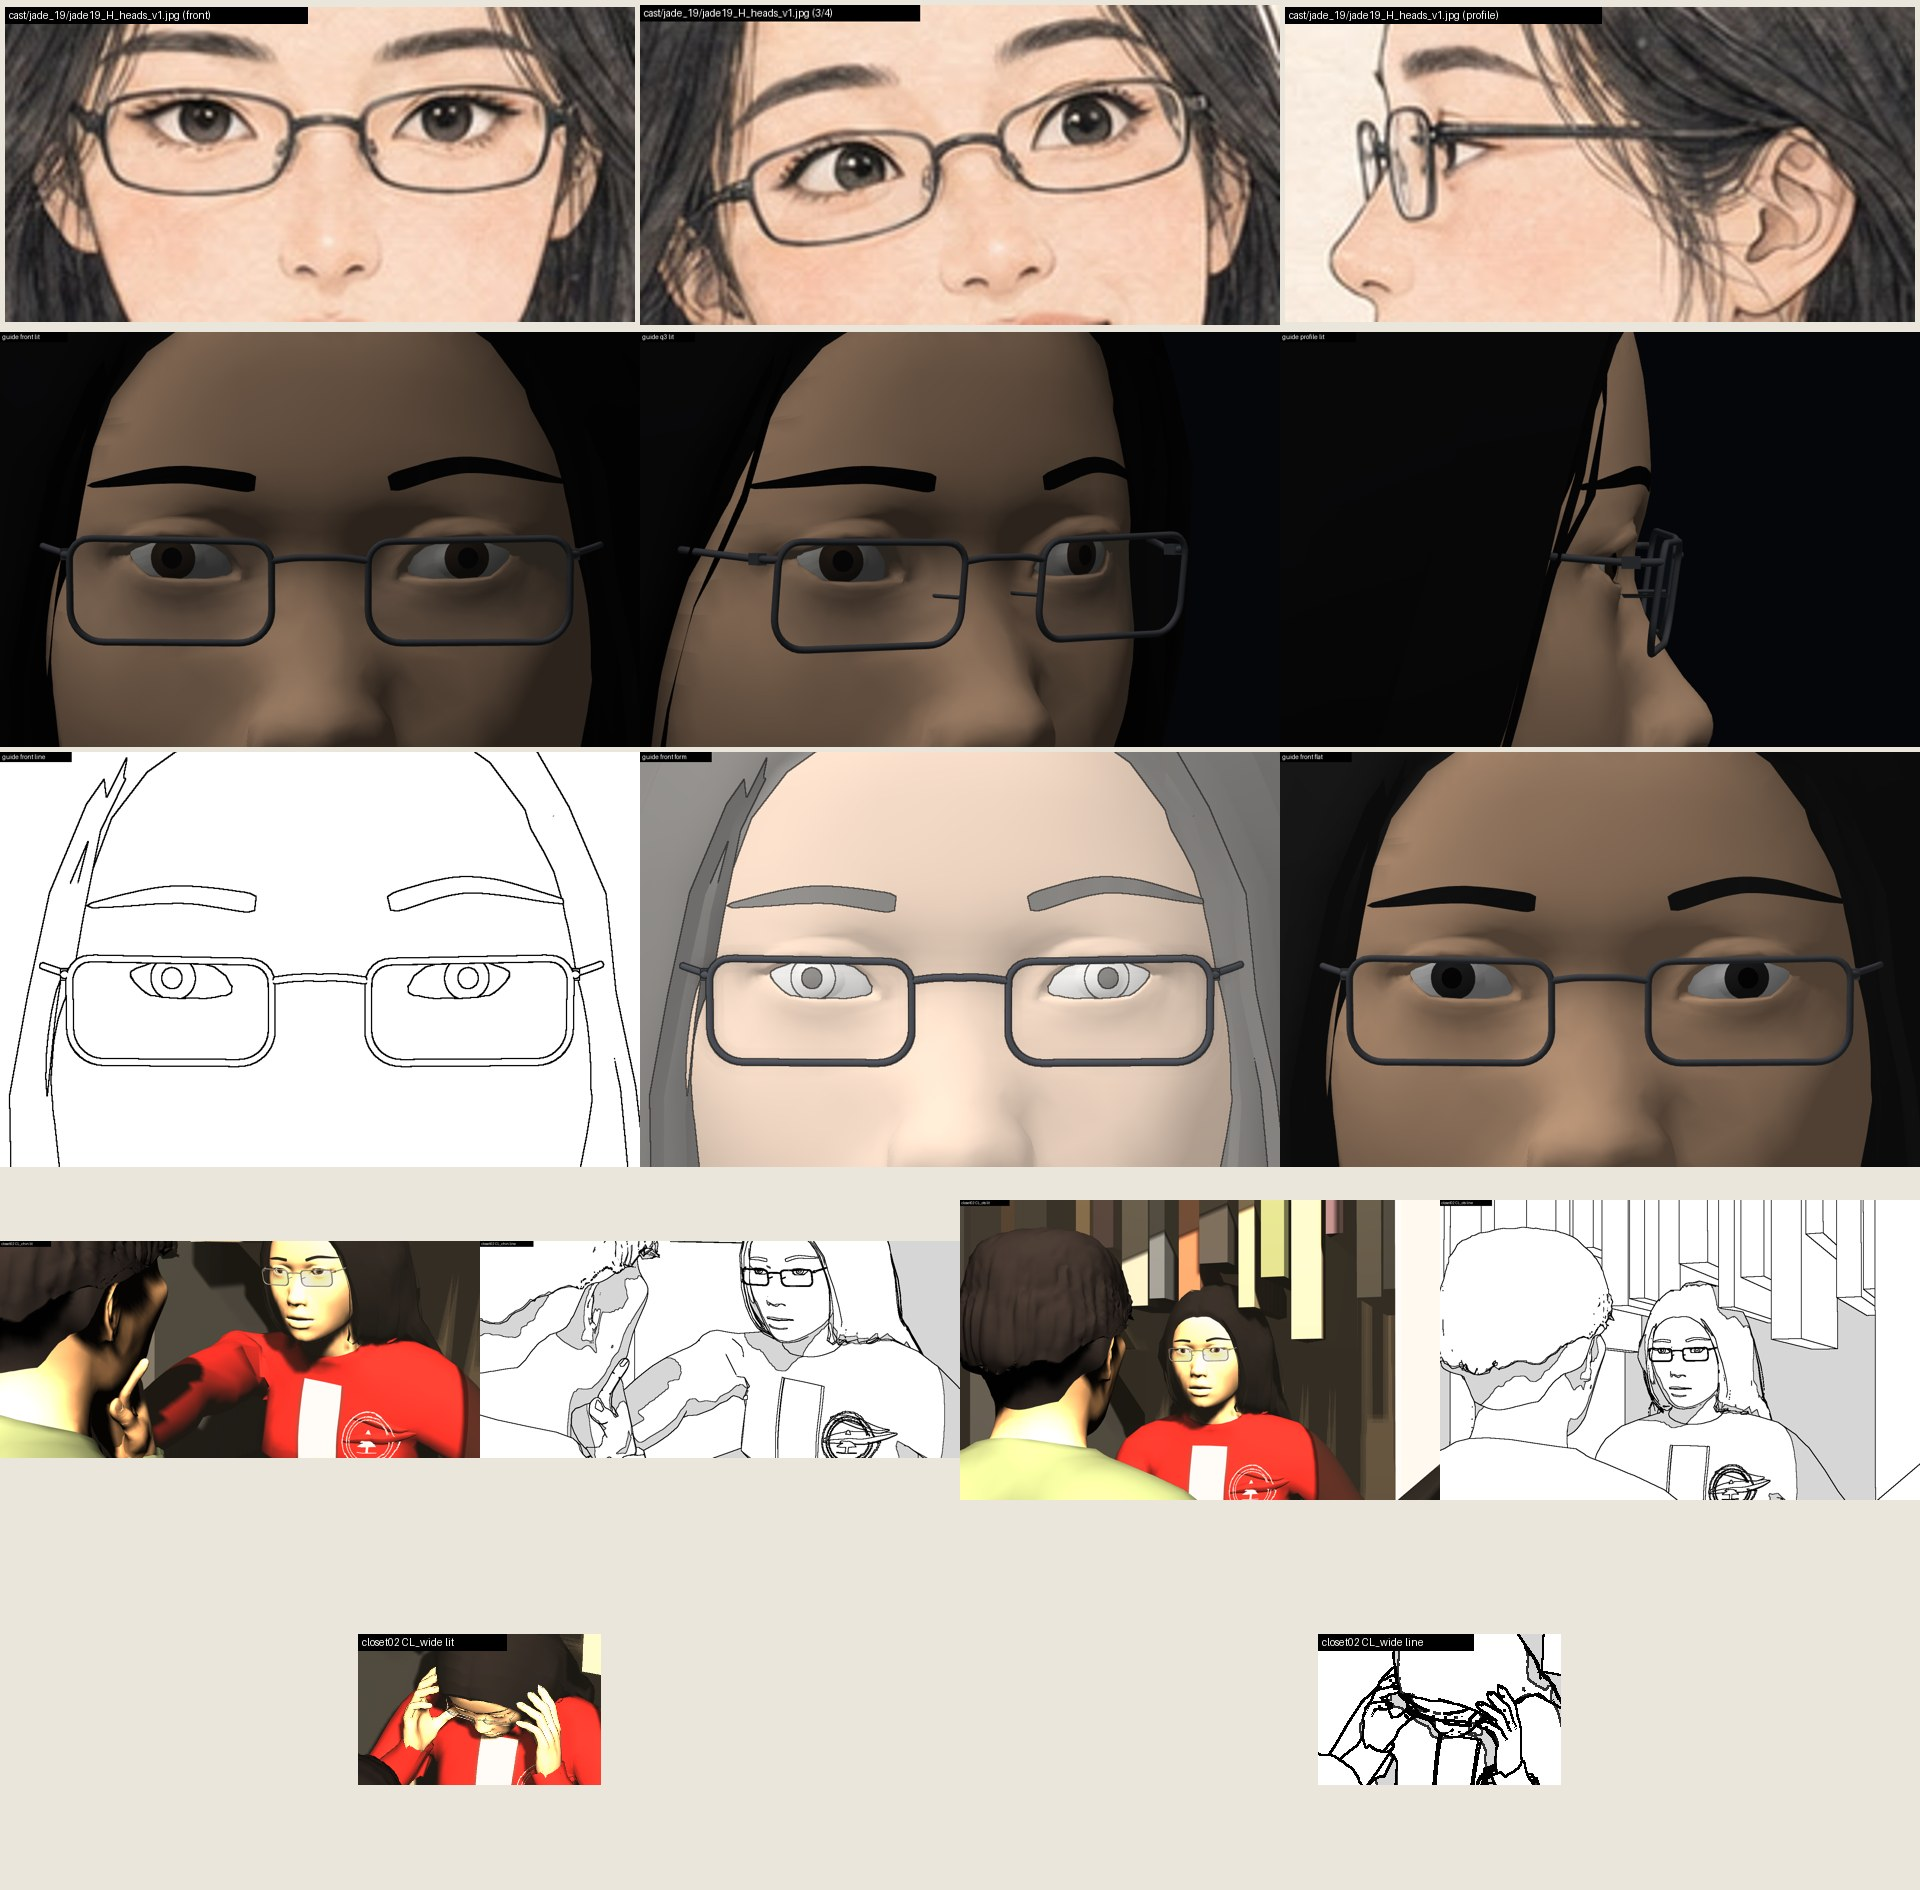
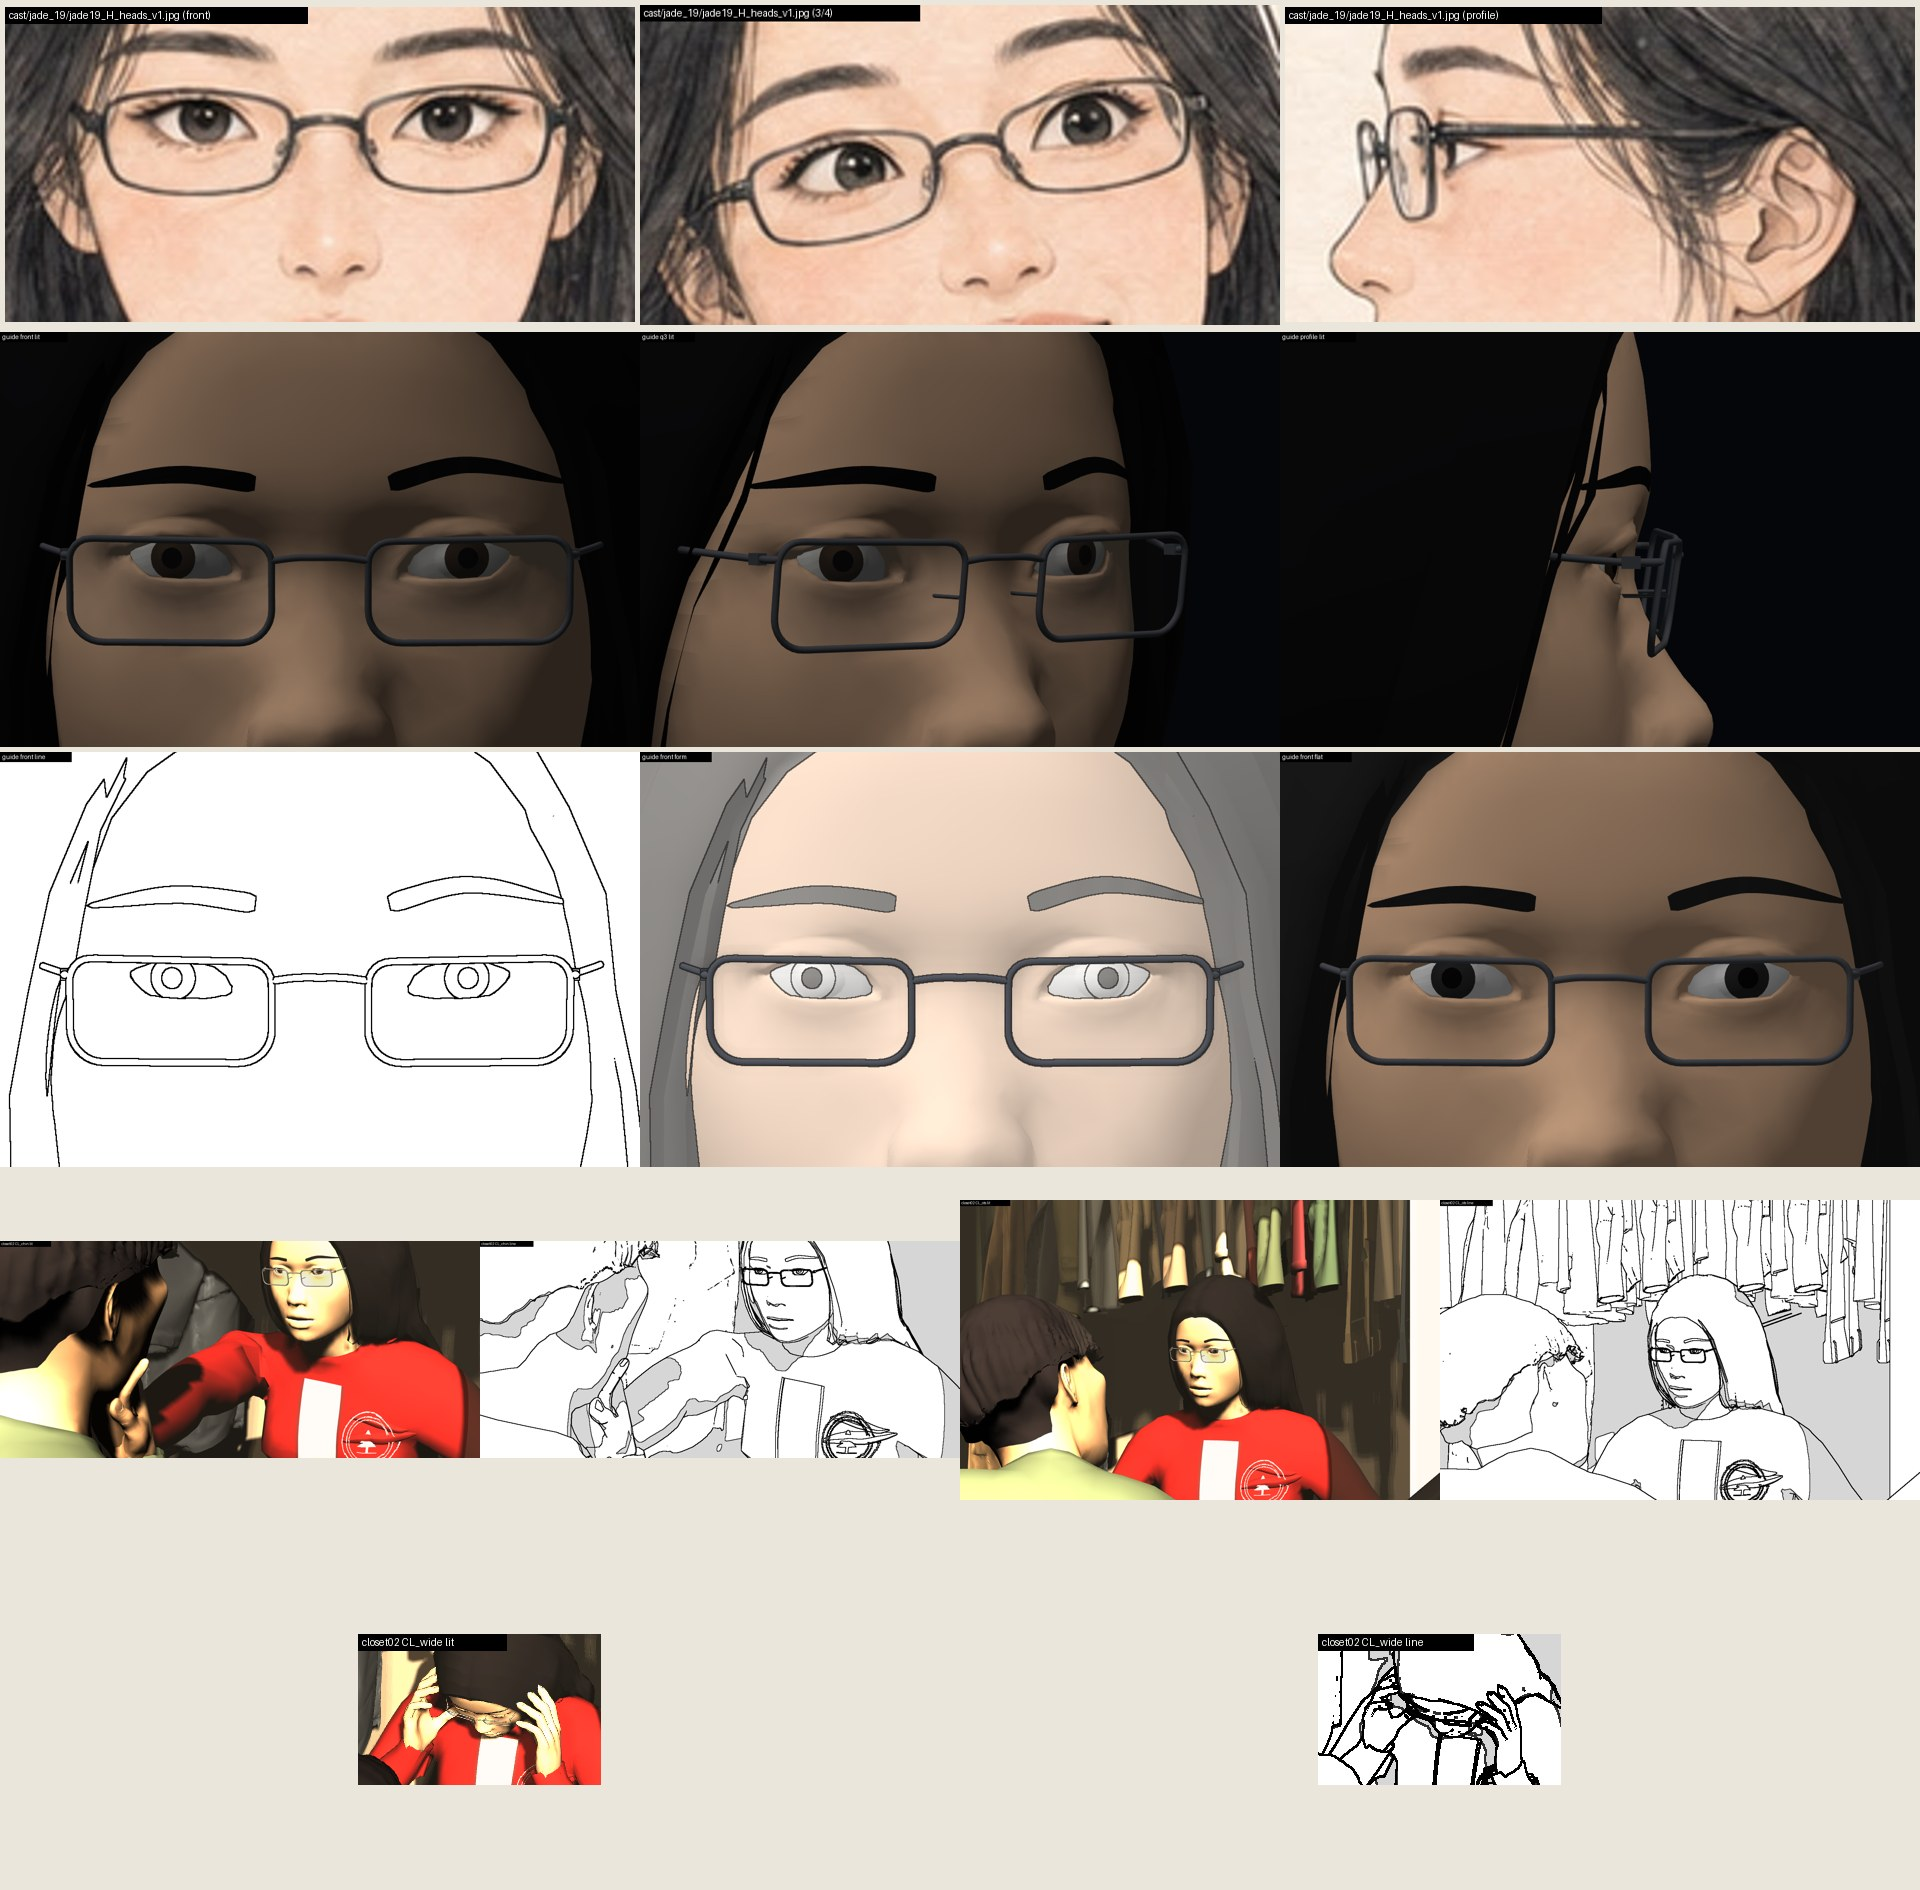
Handoff wording

diff --git a/layout/sets/_cast.js b/layout/sets/_cast.js
@@ -63,7 +63,9 @@ export const SHARED_CAST = {
   jade19: { name: 'Jade (about 19)', h: 1.63, kind: 'adultJade19', skin: 0xe3b692, hair: 0x0e0d0f, top: 0x8a94a8, legs: 0x2c3140, hairStyle: 'long', sleeves: 'long', glasses: 'jade19', brows: 'jade19' },
   jade27: { name: 'Jade (27)', h: 1.65, kind: 'adultJade27', skin: 0xe3b692, hair: 0x0e0d0f, top: 0xd9543a, legs: 0x2c3140, hairStyle: 'long', sleeves: 'short', glasses: 'jade27', brows: 'jade27' },
   // ---- Mama: one person, one height (the engine's `mama`, restaurant apron, 1988); costume variants by year
-  mama86: mamaAs({ name: 'Mama (1986, Shanghai)', top: 0x6f7f9a, hairStyle: 'perm', sleeves: 'short' }),
+  // round 9 (Jade): Mama in Shanghai 1986 wears a CAMEL / CARAMEL sweater, a LONG BLACK SKIRT and slippers (every shanghai86 shot);
+  // the engine has no long skirt: black trousers here, and shanghai86/build.js mamaSkirt draws the long black skirt over them
+  mama86: mamaAs({ name: 'Mama (1986, Shanghai)', top: 0xb08050, legs: 0x1a1a1c, hairStyle: 'perm', sleeves: 'long' }),
   mama90: mamaAs({ name: 'Mama (1990, Decatur)', top: 0x8a5a52, hairStyle: 'perm', sleeves: 'pushed' }),
   mama91: mamaAs({ name: 'Mama (1991, school office)', top: 0x8a5a6a, hairStyle: 'perm', sleeves: 'long' }),
   // ---- Dad

diff --git a/layout/sets/closet02/NOTES.md b/layout/sets/closet02/NOTES.md
@@ -94,8 +94,12 @@ would bring the rod into the top edge but costs the caption room at the bottom.
   a Lab recolour inside SAM 2.1 masks (local model, sam_seg.py; hands mask = the lock), no painter. Check on all four:
   0 changed pixels outside the masks, 0 on the hands. Residual: a few small beige patches of her trousers SAM missed (end,
   bottom centre). Sheet: scratchpad hold_costume_swap_sheet_v3.jpg.
-- Video AB step: specs media/gen/specs/hold_CL_AB_{1017,2101,3307}.json written ($1.85 each); the paid submit was BLOCKED by
-  the permission classifier (00:00 11-28), not run.
+- Jeans PAINTER pass (Jade r8, after the recolour read flat): jeans_prompt.txt, 4 gpt2 calls (~$0.90), region KEY_jeansR.png
+  (her trousers dilated 30 px, minus the hands lock, sleeve, sock and his dark slacks) so the beige patches SAM missed are
+  covered; jeans_layer.py composites it over KEY_swapped_recolour.png -> KEY_swapped.png. 0 px outside the masks, 0 on the
+  hands. Sheet: scratchpad hold_costume_swap_sheet_v4.jpg.
+- Video AB step RUN (Jade's allow rule): proof/hold_CL_AB_{1017,2101,3307} (Seedance 2.0 1080p 5 s, $1.85 each), start =
+  start_swapped, end frame = mid_swapped, the approved prompt with the closet costume named. Jade picks one before `mt`.
 - Video PREPARED, not run: swap/run_video.sh (same Seedance 2.0 1080p chain, same prompts and seeds; only "cream sleeves"
   -> "cardinal-red hoodie sleeves"). Est. $1.85 per take: 3 + 3 takes $11.10, minimum 1 + 1 $3.70.
 - Clothes over her head now brush her hair (garments section). clipcheck "jade19 into hanging clothes" 24-36 mm are false

diff --git a/HANDOFF.md b/HANDOFF.md
@@ -28,7 +28,7 @@ After applying, rebuild the page to only the still-open questions (playbook: tes
   deleted, the hand hold runs 3:30.3-3:34.2 (approved demo with her red sleeve, jeans, white sock). One credits card.
   Animatics: `media/keyframes/r4/_animatic/intro.mp4`, `closet.mp4`.
 - Models: shanghai86 furniture/costume canon (tea table, striped rust suite with cream pinline, crochet openwork, clock,
-  stools, celadon thermoses, Yamaha-less upright with closed key cover and bench, nanny's room + music room, Mama in camel
+  stools, celadon thermoses, a black upright piano (blank nameplate, closed key cover, bench, brass lamp), nanny's room + music room, Mama in camel
   sweater + long black skirt); Morton Grove (Yamaha grand 7'1", rose chintz, pink glass-panel tables, chess set, bright
   frameless mirror, socks); closet heights from Jade's drawing; office91 classroom wall locked; wall88 bulb + 14 cm boards;
   canonical glasses and brows per character (engine/glasses.js, brows.js; CAST.md).
